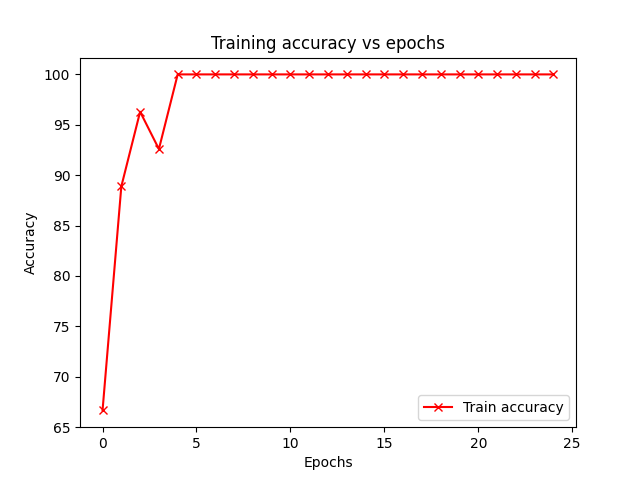
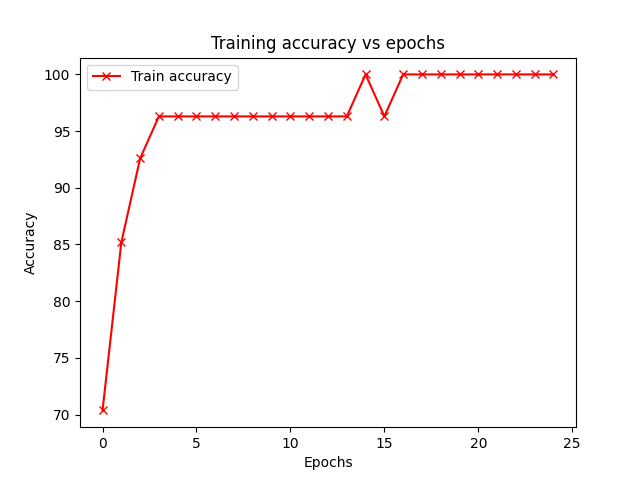
Stable transfer learned greek letters

diff --git a/Assignment5/src/transfer_greek.py b/Assignment5/src/transfer_greek.py
@@ -41,44 +41,23 @@ def freeze_layers_and_modify_last_layer(model: nn.Module, output_features: int):
                                                bias = True)
     return model
 
-
-def main():
-    """This is the function which runs when run as a standalone script.
-    Returns
-    0 if the script exits successfully."""
-
-    epochs = 25
-    learning_rate = 0.03
-    momentum = 0.1
-    log_interval = 5
-    batch_size = 5
-
-    # Load the model from file
-    model = load_model(model_path="models/final_model.pth")
-    # Modify the model to freeze all layers & modify last FC layer to fit
-    model = freeze_layers_and_modify_last_layer(model=model, output_features=3)
-
-    greek_train = torch.utils.data.DataLoader(
-        torchvision.datasets.ImageFolder(root="data/greek_train",
-                                         transform=torchvision.transforms.Compose([
-                                            torchvision.transforms.ToTensor(),
-                                            GreekTransform(),
-                                            torchvision.transforms.Normalize((0.1307,),
-                                                                             (0.3801,),)
-                                         ])), batch_size = batch_size, shuffle=True )
-
+def train_and_plot_accuracies(model: nn.Module, epochs: int, optimizer: torch.optim,
+                              train_data_loader: torch.utils.data.DataLoader, log_interval:int,
+                              batch_size: int):
+    """This function trains the network for the train data loader and plots 
+    the accuracies vs epochs and 
+    training losses vs training examples seen """
     train_losses = []
     train_indices = []
     accuracies = []
-    optimizer = torch.optim.SGD(model.parameters(), lr=learning_rate, momentum=momentum)
     for epoch in range(1, epochs+1, 1):
-        losses, indices = train_network(model= model, train_data_loader= greek_train,
+        losses, indices = train_network(model= model, train_data_loader= train_data_loader,
                     optimizer=optimizer, log_interval=log_interval,
                     epoch=epoch, batch_size=batch_size,
                     model_path="models/model_greek.pth", optim_path="models/optim_greek.pth")
         train_losses.extend(losses)
         train_indices.extend(indices)
-        _, accuracy = test_network(model=model, test_data_loader=greek_train)
+        _, accuracy = test_network(model=model, test_data_loader=train_data_loader)
         accuracies.append(accuracy)
     plt.figure(figsize=(10, 10))
     plt.plot(train_indices, train_losses, c='g', label="Training loss")
@@ -97,6 +76,39 @@ def main():
     plt.legend()
     plt.savefig("results/transfer_learning_accuracies.png")
     plt.show()
+
+
+def main():
+    """This is the function which runs when run as a standalone script.
+    Returns
+    0 if the script exits successfully."""
+
+    epochs = 25
+    learning_rate = 0.03
+    momentum = 0.1
+    log_interval = 5
+    batch_size = 5
+
+    # Load the model from file
+    model = load_model(model_path="models/final_model.pth")
+    # Modify the model to freeze all layers & modify last FC layer to fit
+    model = freeze_layers_and_modify_last_layer(model=model, output_features=3)
+
+    # Train dataset provided 
+    greek_train = torch.utils.data.DataLoader(
+        torchvision.datasets.ImageFolder(root="data/greek_train",
+                                         transform=torchvision.transforms.Compose([
+                                            torchvision.transforms.ToTensor(),
+                                            GreekTransform(),
+                                            torchvision.transforms.Normalize((0.1307,),
+                                                                             (0.3801,),)
+                                         ])), batch_size = batch_size, shuffle=True )
+    optimizer = torch.optim.SGD(model.parameters(), lr=learning_rate, momentum=momentum)
+    # Train and plot the accuracy based on the 
+    train_and_plot_accuracies(model=model, epochs=epochs, optimizer=optimizer, 
+                              train_data_loader=greek_train, log_interval=log_interval, 
+                              batch_size=batch_size)
+
 
 if __name__ == "__main__":
     main()
